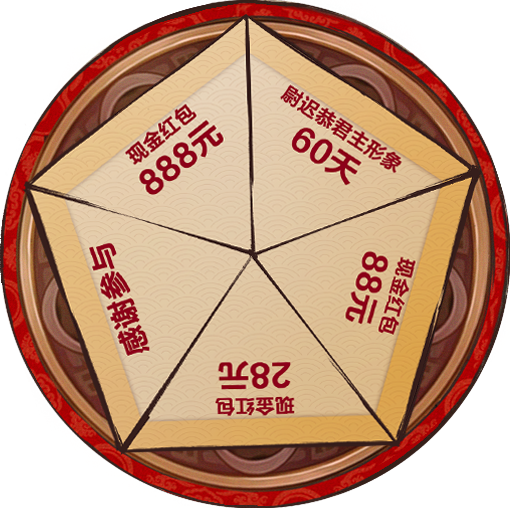
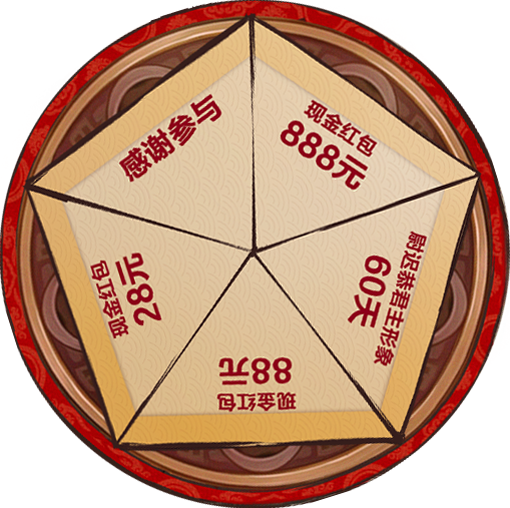
客态页新增弹框

diff --git a/src/less/index.less b/src/less/index.less
@@ -616,6 +616,7 @@ body {
 	// z-index: 99999;
 	width: 100%;
 	height: 100%;
+	font-size: 0.2rem;
 	background-image: url("@{img}/frame/mesk_bg.png");
 	.frame{
 		position: relative;
@@ -671,8 +672,10 @@ body {
 			background-image:  url("@{img}/frame/share.png");
 			background-size: 100% 100%;
 			position: absolute;
-			top: 40px;
-			right: 40px;
+			top: 0.6rem;
+			right: 1.2rem;
+			  -webkit-transform: scale(2);
+			transform: scale(2);
 		
 		}
 	}
@@ -742,7 +745,10 @@ body {
 			font-size: 0.3rem;
 			font-weight: 800;
 			word-wrap: break-word;
-    		word-break: normal;
+			word-break: normal;
+			box-sizing: border-box;
+			padding-top: 0.8rem;
+			line-height: 0.5rem;
 		}
 	}
 
@@ -901,8 +907,8 @@ body {
 			height: 5.09rem;
 			background-image:url('@{img}/frame/roulette.png');
 			background-size: cover;
-		    left: 0.78rem;
-    		top: 0.75rem;
+			left: 0.78rem;
+			top: 0.75rem;
 		}
 		.panel-btn{
 			position: absolute;
@@ -1031,10 +1037,11 @@ body {
 			margin: 0 auto;
 			overflow: scroll;
 			.friend-item{
-				height: 69px;
+				margin-top: 0.1rem;
 				display: flex;
 				align-items: center;
 				justify-content: flex-start;
+				font-size: 0.24rem;
 			}
 			.friend-avatar {
 				width: 54px;
@@ -1043,7 +1050,12 @@ body {
 				overflow: hidden;
 			}
 			.name{
-				margin-left: 10px;
+				margin-left: 0.1rem;
+				width: 2.2rem;
+				white-space: nowrap;
+				overflow: hidden;
+				text-overflow: ellipsis;
+				padding: 0.01rem;
 			}
 			.value{
 				flex: 1;
@@ -1053,109 +1065,4 @@ body {
 	}
 }
 
-.m-visitors {
-	z-index: 2;
-	// z-index: 999;
-	width: 750px;
-	height: 1624px;
-	background-image: url("@{img}/visitors/vis_bg.png");
-	.btn-relus{
-		width: 0.69rem;
-		height: 1.03rem;
-		top: 2rem;
-		left: 6.5rem;
-		background-image: url("@{img}/index/relus.png");
-	}
-	.visitors-main{
-		position: relative;
-		width: 646px;
-		height: 1206px;
-		.top-content{
-			width: 100%;
-			height: 590px;
-			.top-title{
-				width: 2.36rem;
-				height: 0.25rem;
-				margin: 0 auto;
-				margin-top: 1.2rem;
-				background-image: url("@{img}/visitors/top_title.png");
-			}
-			.friend-value{
-				width: 4.5rem;
-				height: 1.1rem;
-				margin: 0 auto;
-				margin-top: 10px;
-				text-align: center;
-				.value-img{
-					width: 70px;
-					height: 90px;
-				}
-			}
-			.title-text{
-				width: 595px;
-				height: 110px;
-				margin: 0 auto;
-				background-image: url("@{img}/visitors/cen_title.png");
-			}
-			.button-box{
-				width: 600px;
-				height: 110px;
-				margin: 0 auto;
-				display: flex;
-				margin-top: 0.5rem;
-				.help_friend-btn{
-					width: 298px;
-					height: 94px;
-					background-image: url("@{img}/visitors/help_friend_btn.png");
-				}
-				.invitation-btn{
-					width: 298px;
-					height: 94px;
-					background-image: url("@{img}/visitors/invitation_btn.png");
-				}
-			}
-			.invitation-tip{
-				width: 393px;
-				height: 62px;
-				margin: 0 auto;
-				background-image: url("@{img}/visitors/invitation_tip.png");
-			}
-		}
-		.friend-list{
-			position: relative;
-			width: 578px;
-			height: 443px;
-			background-image: url("@{img}/visitors/friend_list.png");
-			.list-container{
-				position: absolute;
-				bottom: 0.5rem;
-				left: 50%;
-				-webkit-transform: translateX(-50%);
-				transform: translateX(-50%);
-				width: 3.8rem;
-				height: 2rem;
-				overflow: scroll;
-				.friend-item{
-					height: 69px;
-					display: flex;
-					align-items: center;
-					justify-content: flex-start;
-				}
-				.avatar{
-					width: 54px;
-					height: 54px;
-					border-radius: 50%;
-					overflow: hidden;
-				}
-				.name{
-					margin-left: 10px;
-				}
-				.value{
-					flex: 1;
-				    text-align: right;
-				}
-			}
-		}
-	}
-}
 

diff --git a/src/less/visitors.less b/src/less/visitors.less
@@ -166,6 +166,7 @@ body {
 	// z-index: 99999;
 	width: 100%;
 	height: 100%;
+	font-size: 0.2rem;
 	background-image: url("@{img}/frame/mesk_bg.png");
 	.frame{
 		position: relative;
@@ -209,6 +210,9 @@ body {
 		.appraisal{
 			background-image: url('@{img}/button/btn_appraisal.png');
 		}
+		.com_share{
+			background-image: url('@{img}/button/btn_com_share.png');
+		}
 	}
 	
 	.share{
@@ -221,8 +225,9 @@ body {
 			background-image:  url("@{img}/frame/share.png");
 			background-size: 100% 100%;
 			position: absolute;
-			top: 40px;
-			right: 40px;
+			top: 0.6rem;
+			right: 1.2rem;
+			transform: scale(2);
 		
 		}
 	}
@@ -292,10 +297,30 @@ body {
 			font-size: 0.3rem;
 			font-weight: 800;
 			word-wrap: break-word;
-    		word-break: normal;
+			word-break: normal;
+			box-sizing: border-box;
+			padding-top: 0.8rem;
+			line-height: 0.5rem;
 		}
 	}
 
+	.download-wrap{
+		.message-text{
+			width: 5.11rem;
+			height: 2.93rem;
+			margin: 0 auto;
+			overflow: hidden;
+			text-align: center;
+			font-family: boldFont;
+			font-size: 0.3rem;
+			font-weight: 800;
+			word-wrap: break-word;
+			word-break: normal;
+			box-sizing: border-box;
+			padding-top: 0.8rem;
+			line-height: 0.5rem;
+		}
+	}
 
 	.help-com-wrap{
 		.content{
@@ -303,6 +328,24 @@ body {
 			height: 0.32rem;
 			margin: 0 auto;
 			background-image: url('@{img}/frame/help_com.png');
+		}
+	}
+
+	.tip-wrap{
+		.content{
+			width: 4.8rem;
+			height: 0.92rem;
+			margin: 0 auto;
+			background-image: url('@{img}/frame/tip_text.png');
+		}
+	}
+
+	.limit-wrap{
+		.content{
+			width: 4.6rem;
+			height: 1.52rem;
+			margin: 0 auto;
+			background-image: url('@{img}/frame/limit_text.png');
 		}
 	}
 	
@@ -415,10 +458,11 @@ body {
 				overflow: scroll;
 				font-size: 14px;
 				.friend-item{
-					height: 69px;
+					margin-top: 10px;
 					display: flex;
 					align-items: center;
 					justify-content: flex-start;
+					font-size: 0.24rem;
 				}
 				.avatar{
 					width: 54px;
@@ -427,7 +471,12 @@ body {
 					overflow: hidden;
 				}
 				.name{
-					margin-left: 10px;
+					margin-left: 0.1rem;
+					width: 2.2rem;
+					white-space: nowrap;
+					overflow: hidden;
+					text-overflow: ellipsis;
+					padding: 0.01rem;
 				}
 				.value{
 					flex: 1;

diff --git a/src/js/app/Config.js b/src/js/app/Config.js
@@ -342,23 +342,31 @@ Config.pageImgs = {
         },
         {
             name: 'share_1',
-            url: require('../../img/share_img/share_1.jpg')
+            url: require('../../img/share_img/share1.jpg')
         },
         {
             name: 'share_2',
-            url: require('../../img/share_img/share_2.jpg')
+            url: require('../../img/share_img/share2.jpg')
         },
         {
             name: 'share_3',
-            url: require('../../img/share_img/share_3.jpg')
+            url: require('../../img/share_img/share3.jpg')
         },
         {
             name: 'share_4',
-            url: require('../../img/share_img/share_4.jpg')
+            url: require('../../img/share_img/share4.jpg')
         },
         {
             name: 'share_5',
-            url: require('../../img/share_img/share_5.jpg')
+            url: require('../../img/share_img/share5.jpg')
+        },
+        {
+            name: 'head',
+            url: require('../../img/index/head.jpg')
+        },
+        {
+            name: 'share',
+            url: require('../../img/frame/share.png')
         }
     ],
     sprites: [
@@ -418,6 +426,18 @@ Config.visitorsImgs = {
         {
             name: 'mesk_bg',
             url: require('../../img/frame/mesk_bg.png')
+        },
+        {
+            name: 'tip_text',
+            url: require('../../img/frame/tip_text.png')
+        },
+        {
+            name: 'limit_text',
+            url: require('../../img/frame/limit_text.png')
+        },
+        {
+            name: 'btn_com_share',
+            url: require('../../img/button/btn_com_share.png')
         },
         {
             name: '0',

diff --git a/webpack.config.dev.js b/webpack.config.dev.js
@@ -82,7 +82,7 @@ module.exports = function (env) {
             new HotModuleReplacementPlugin()
         ],
         devServer: {
-            host: '0.0.0.0',
+            host: '127.0.0.1',
             contentBase: [path.join(__dirname, './*.ejs'), path.join(__dirname, './src/')],
             compress: true,
             // port: 3000,

diff --git a/config.path.js b/config.path.js
@@ -6,5 +6,5 @@ module.exports = {
     dev: '',
     dist: '/',
     prod: 'https://qrss.treedom.cn/streetgame/',
-    handover: '//game.gtimg.cn/images/slg/cp/a20210119ms/'
+    handover: '//game.gtimg.cn/images/slg/act/4876/a20210119msu/'
 };
